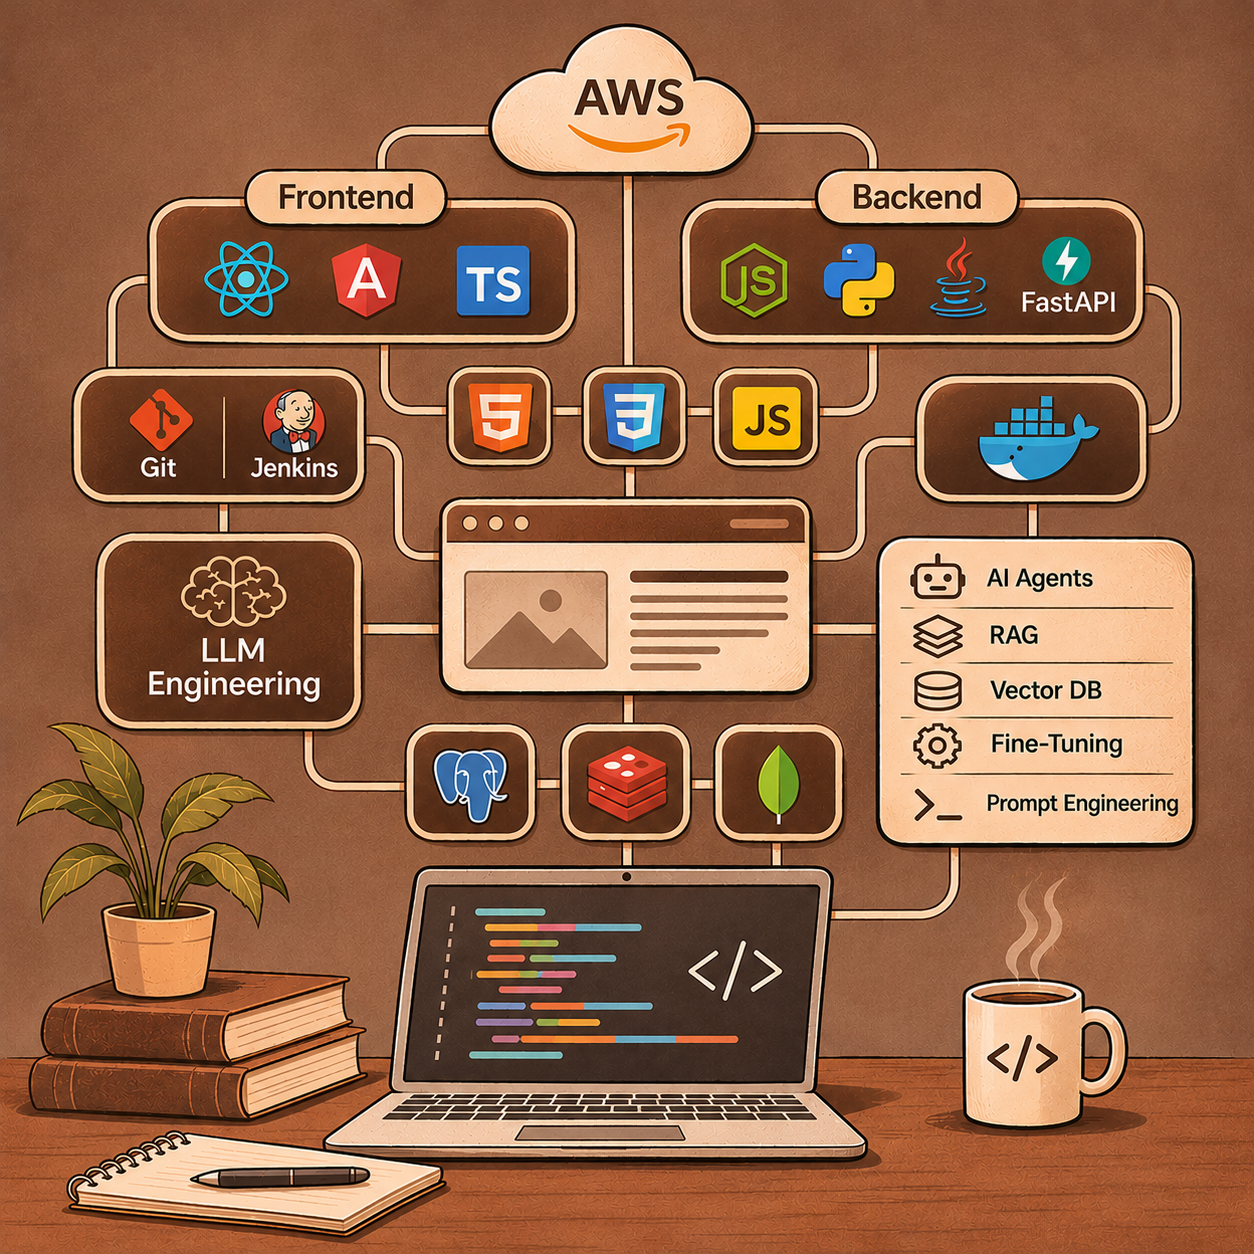
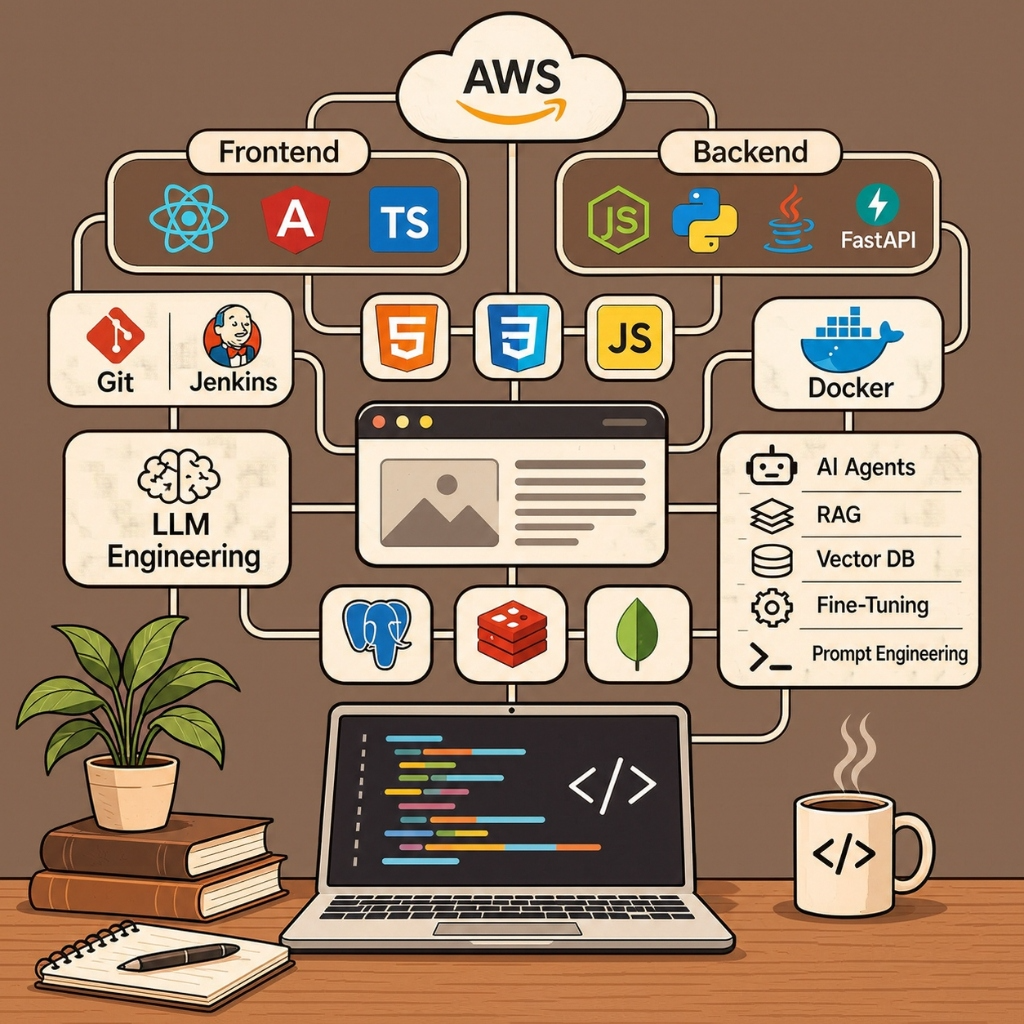
feat: refine tech stack image and hide it on mobile layouts

diff --git a/src/components/Columns.jsx b/src/components/Columns.jsx
@@ -18,7 +18,7 @@ export default function Columns() {
         </div>
         <figure className="photo cols__photo">
           <img src="/images/deep-dey-tech-stack.webp" alt="Illustration of Deep Dey's stack: Java, Spring Boot, React, Angular, Python, Docker, AWS and LLM tooling" width="1254" height="1254"
-               style={{ objectPosition: '50% 30%', transform: 'scale(1.1)' }} loading="lazy" />
+               style={{ objectPosition: '50% 30%', transform: 'scale(1)' }} loading="lazy" />
         </figure>
       </div>
       <div className="cols__side">

diff --git a/src/styles/paper.css b/src/styles/paper.css
@@ -288,6 +288,7 @@ main { padding-top: var(--header-h); }
   .about__left { padding-right: 0; }
   .about__roles .role { text-align: center; }
   .software { display: none; }
+  .cols__photo { display: none; }
   .cols, .cols__top { grid-template-columns: minmax(0, 1fr); }
   .cols__main { padding: 24px 0; }
   .cols__top > section:first-child { padding: 0 0 24px; }
